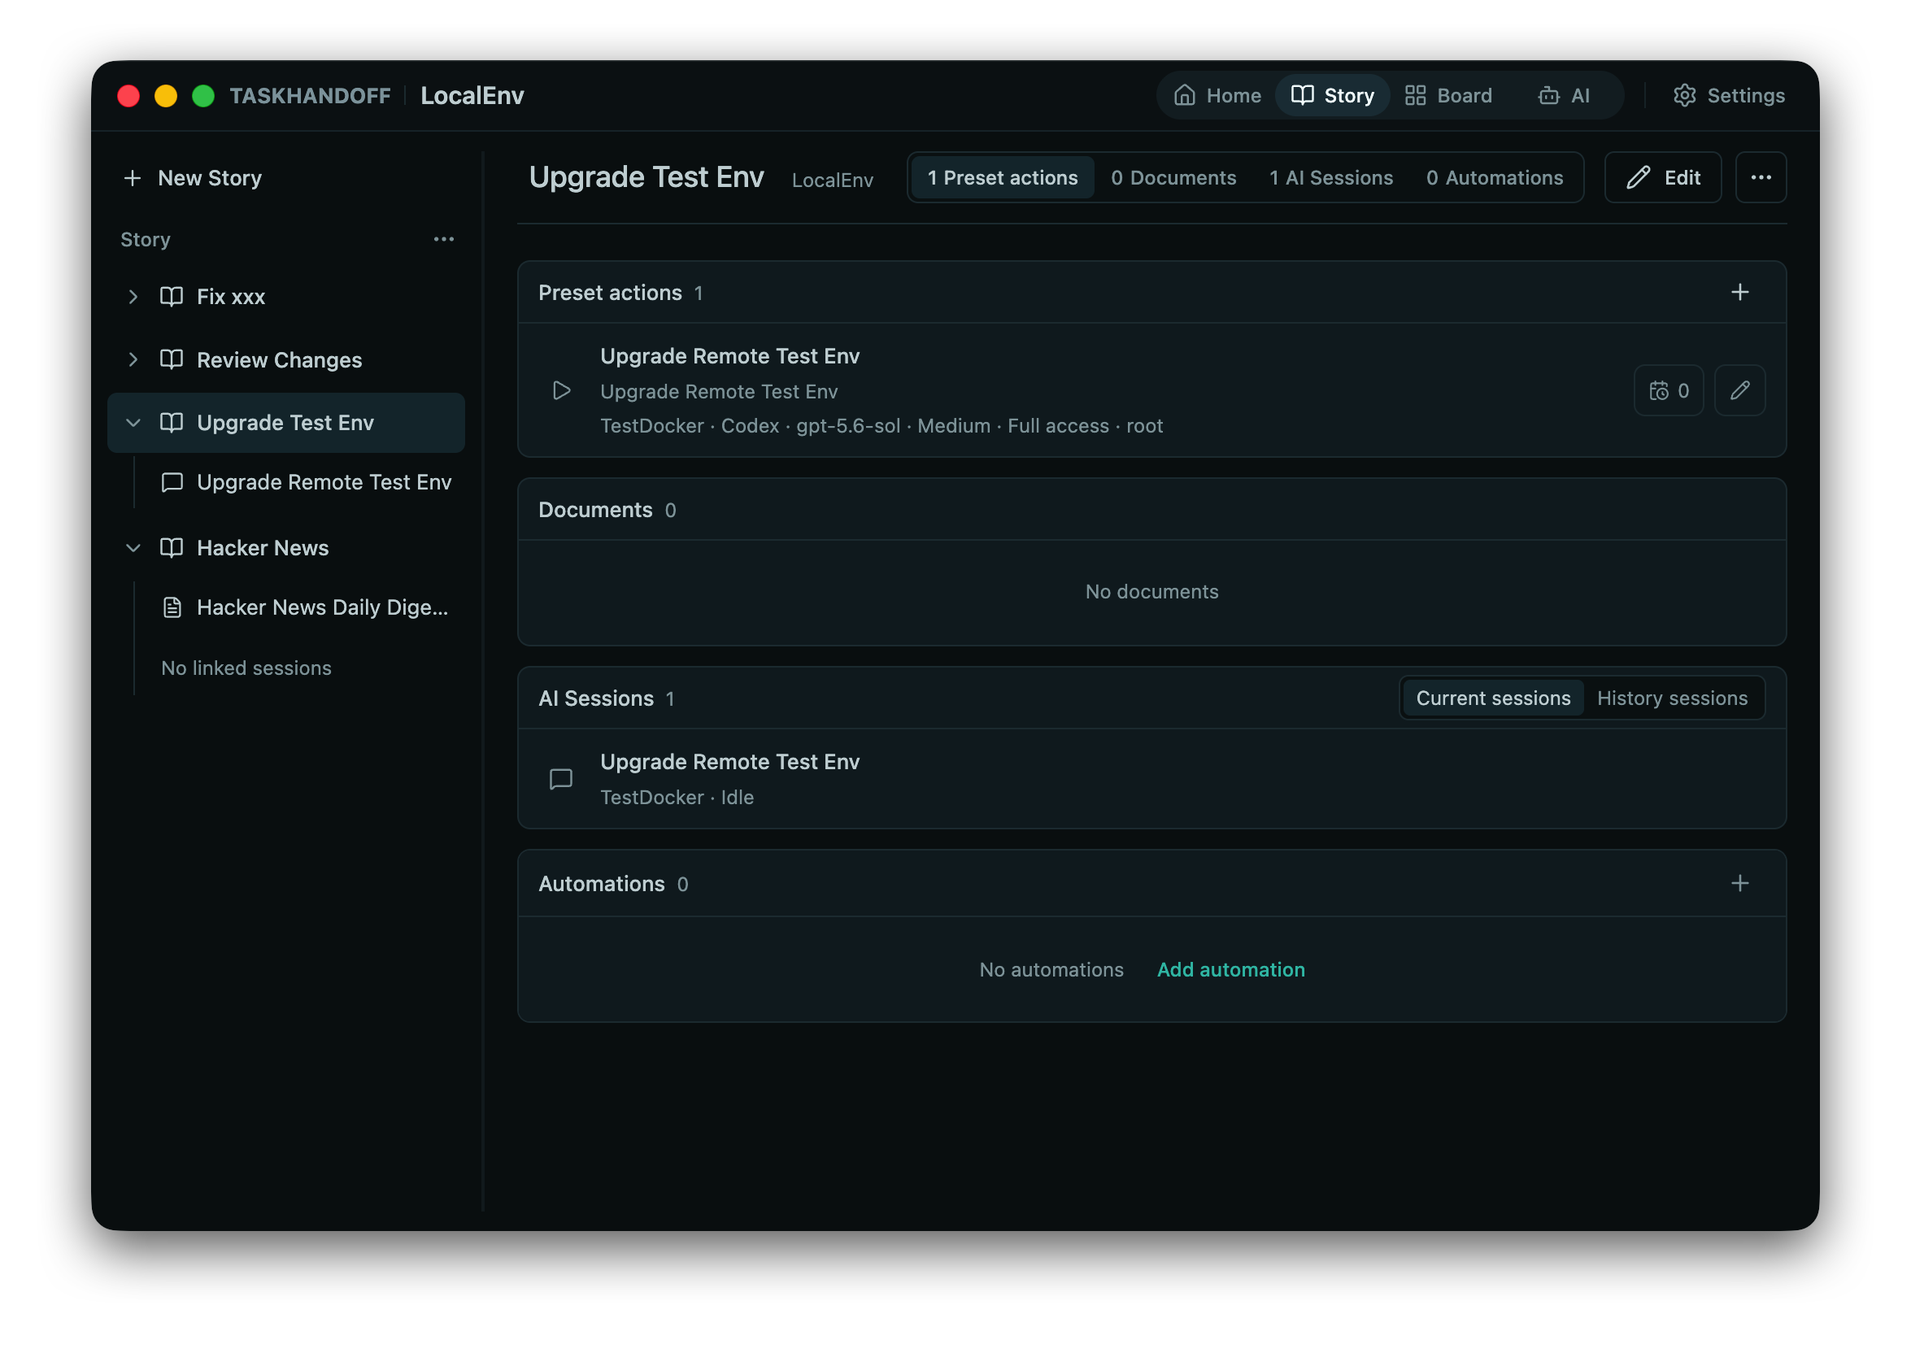
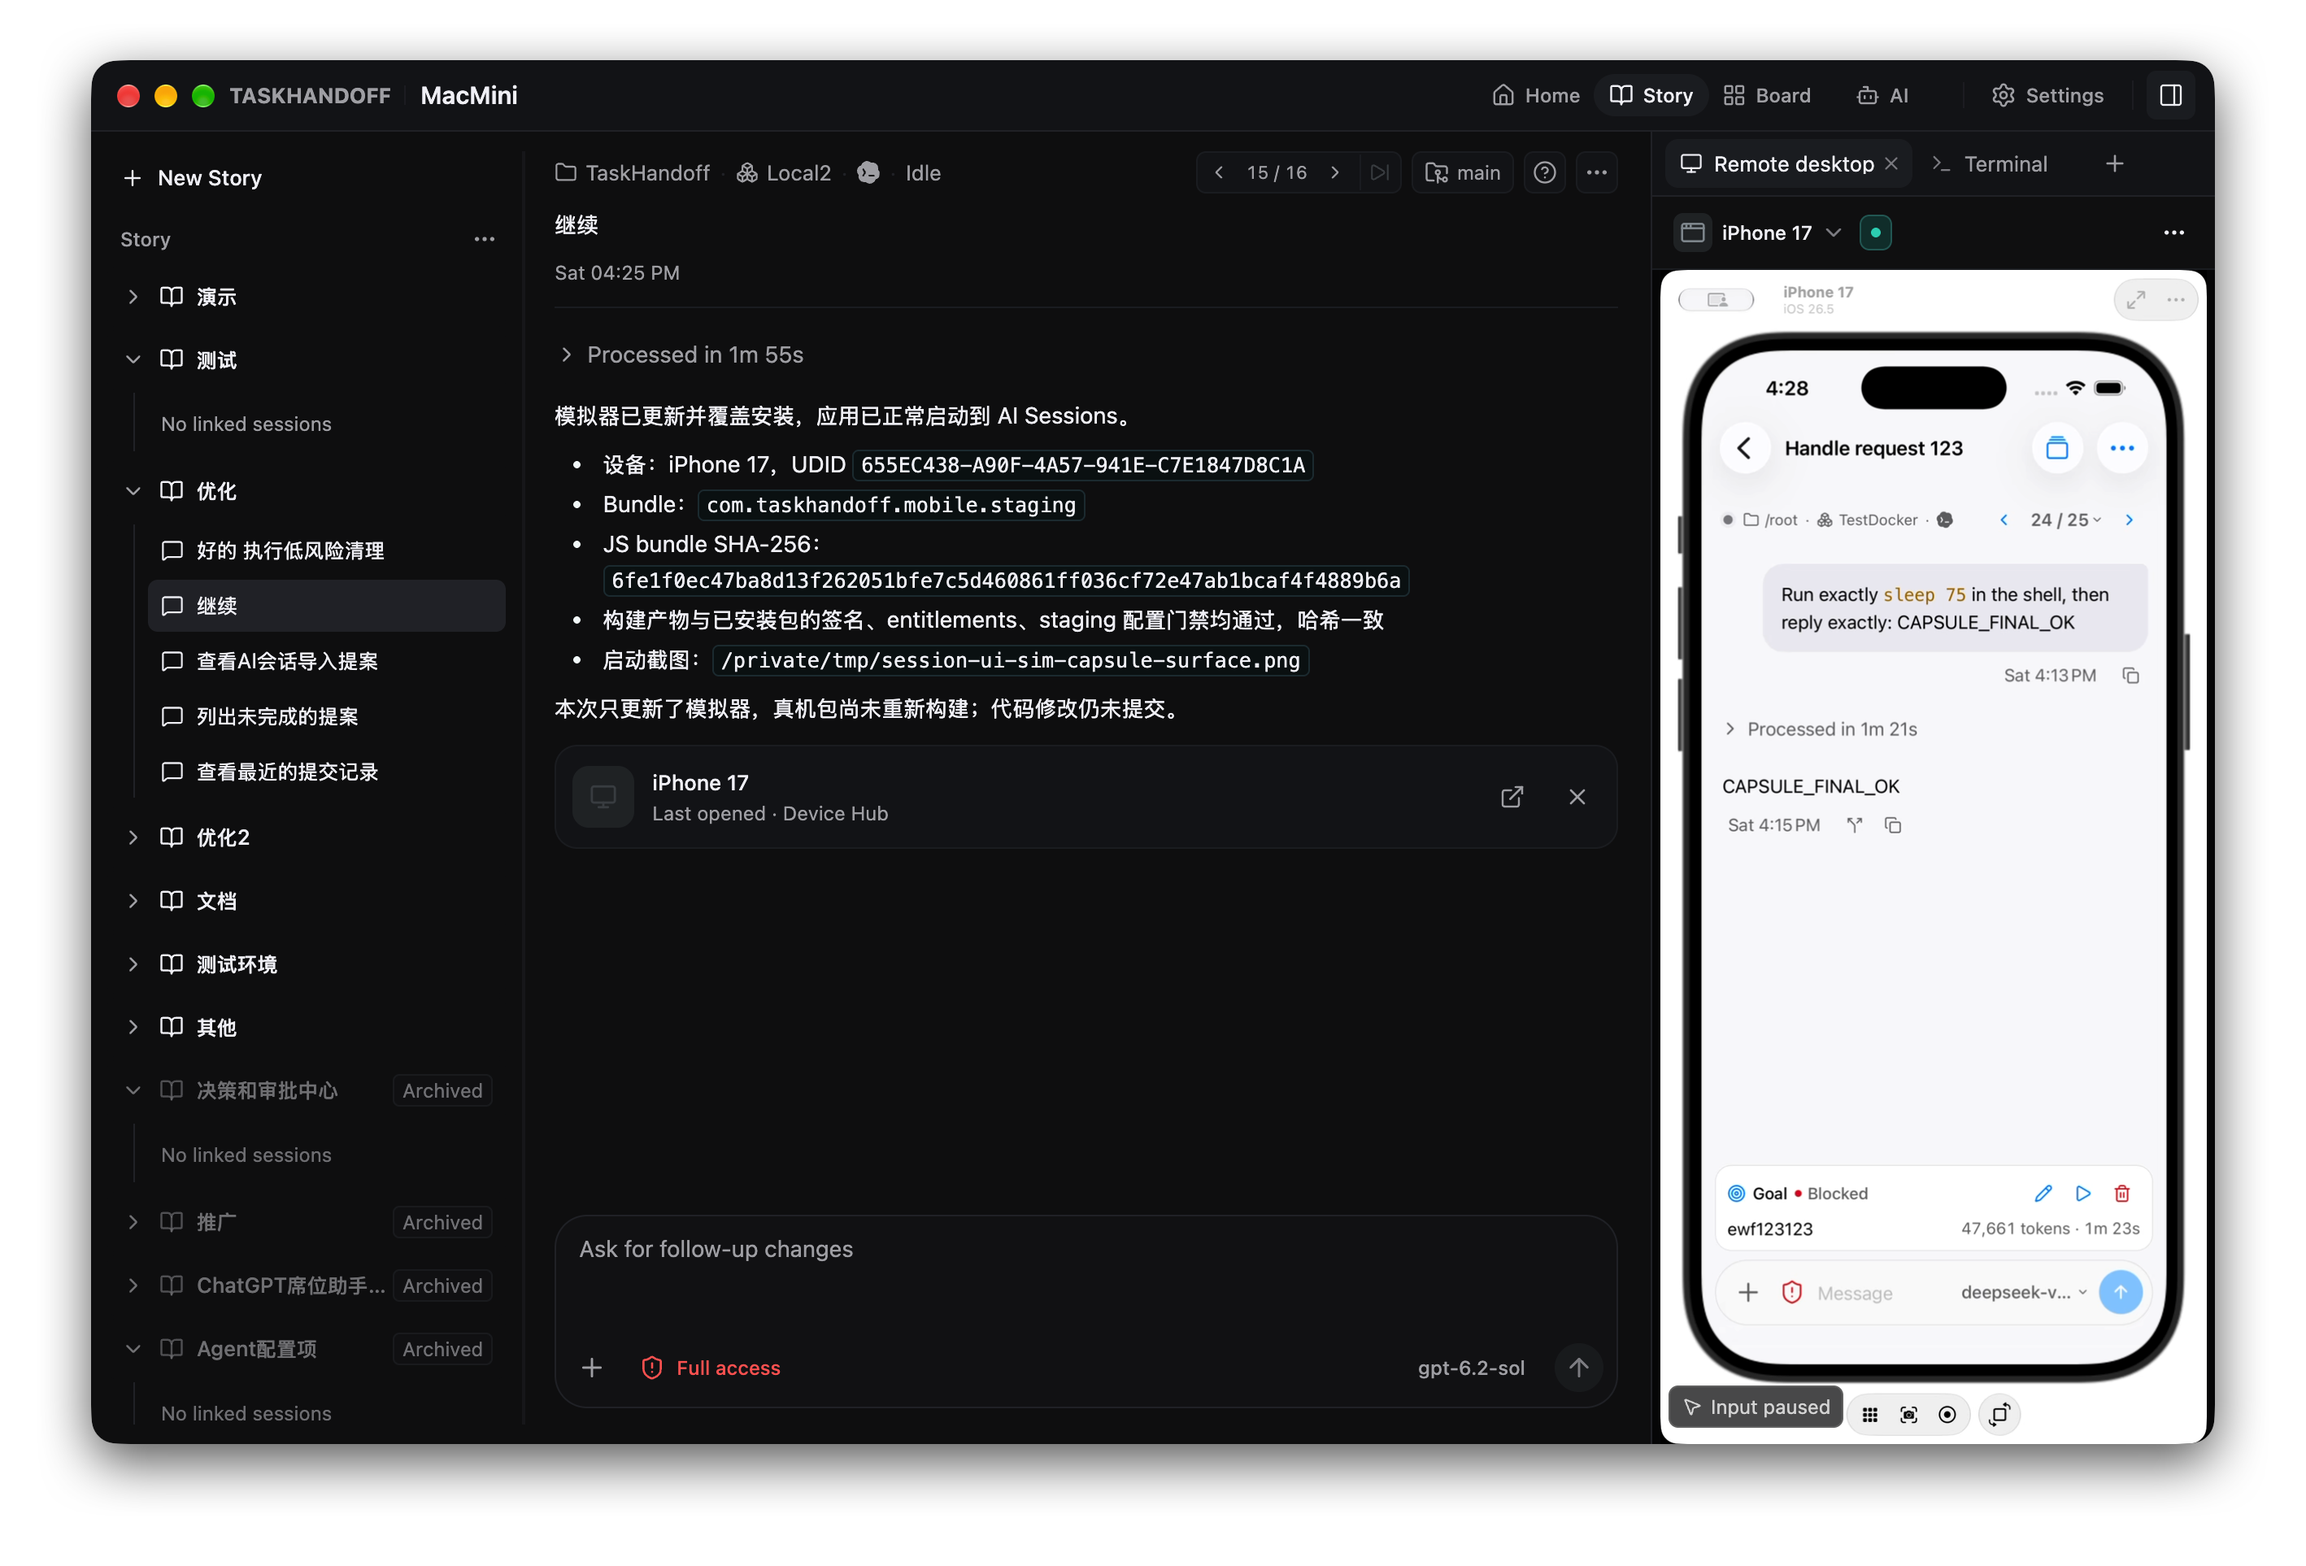
docs: refresh workbench and remote desktop screenshots

diff --git a/docs/.vitepress/theme/HomePage.vue b/docs/.vitepress/theme/HomePage.vue
@@ -19,7 +19,7 @@ const copy = {
     featureLink: '了解更多',
     heroNote: '免费远程工作；桌面安装或服务器部署，由你选择',
     previews: [
-      { label: '工作台', image: '/images/workbench-light-mode.png', alt: 'TaskHandoff Story 工作台：组织文档、会话与自动化', detail: '把文档、会话和自动化，放回同一个任务里', width: 1960, height: 1423 },
+      { label: '工作台', image: '/images/workbench-overview-light.png', alt: 'TaskHandoff 主界面：实例栏、AI 会话和主工作区', detail: '把文档、会话和自动化，放回同一个任务里', width: 2836, height: 1926 },
       { label: 'AI 会话', image: '/images/ai-session-view-modes.png', alt: 'TaskHandoff AI 会话：查看当前任务和工具活动', detail: '聚焦当前回合，执行过程与完整历史随时可查', width: 1960, height: 1424 },
       { label: '远程节点', image: '/images/node-management-overview.png', alt: 'TaskHandoff 节点管理：统一查看本机与远程运行环境', detail: '环境可以分布各处，管理入口始终只有一个', width: 1960, height: 1424 }
     ],
@@ -92,7 +92,7 @@ const copy = {
     previews: [
       { label: 'Workbench', image: '/images/workbench-overview-en.png', alt: 'TaskHandoff workbench with the instance sidebar and AI workspace', detail: 'Instances, sessions, and controls. Together in one workbench', width: 2178, height: 1664 },
       { label: 'AI sessions', image: '/images/instance-detail-en.png', alt: 'TaskHandoff instance with an English AI session composer', detail: 'Choose a workspace and agent, then start the next task', width: 2350, height: 1664 },
-      { label: 'Stories', image: '/images/story-overview-en.png', alt: 'TaskHandoff Story with actions, documents, sessions, and automation', detail: 'Keep long-running work and its context in one place', width: 2350, height: 1664 }
+      { label: 'Stories', image: '/images/story-overview-en.png', alt: 'TaskHandoff Story with a linked AI session and an iPhone Simulator Remote Desktop preview', detail: 'Keep long-running work and its context in one place', width: 2836, height: 1926 }
     ],
     heroLines: ['TaskHandoff', 'AI remote work and server operations'],
     previewLabel: 'Workbench preview',

diff --git a/docs/en/guide/workbench.md b/docs/en/guide/workbench.md
@@ -3,7 +3,7 @@
 After sign-in, TaskHandoff opens its unified workbench. The top navigation switches product views, while the instance sidebar locates runtime environments.
 
 <figure class="doc-screenshot">
-  <img src="/images/workbench-overview-en.png" alt="TaskHandoff workbench overview">
+  <img src="/images/workbench-overview-dark.png" alt="TaskHandoff workbench in dark mode with the instance sidebar, session list, and main workspace">
   <figcaption>The workbench combines top-level navigation, the instance sidebar, session list, and main workspace.</figcaption>
 </figure>
 
@@ -23,8 +23,8 @@ After sign-in, TaskHandoff opens its unified workbench. The top navigation switc
 Search, sort, group, and resize the instance sidebar. Selecting an instance opens its AI and app sessions. Its menu provides lifecycle, settings, and deletion actions.
 
 <figure class="doc-screenshot">
-  <img src="/images/instance-switcher-en.png" alt="Instance switcher in the TaskHandoff workbench">
-  <figcaption>Switch directly between running instances from the workbench header.</figcaption>
+  <img src="/images/workbench-overview-light.png" alt="TaskHandoff workbench in light mode showing connected instances in the sidebar">
+  <figcaption>The instance sidebar lists connected instances and their state; select one to open its AI and app sessions.</figcaption>
 </figure>
 
 The instance board supervises multiple workspaces and supports filters, card sizes, app previews, and preview interaction. The AI board focuses on running, waiting, and failed AI sessions.
@@ -57,6 +57,11 @@ Instance details contain AI timelines, app sessions and terminals, browser previ
 
 After the instance has the Remote Desktop component installed and enabled, open it from the session action menu, resource sidebar, or instance details. Session cards and floating previews are read-only; open the full surface before enabling input or clipboard access.
 
+<figure class="doc-screenshot">
+  <img src="/images/remote-desktop-source-picker-en.png" width="2836" height="1926" alt="Remote Desktop source picker with Entire desktop and Single window options">
+  <figcaption>Choose the entire desktop or a single window, then review the source and connection details before opening the viewer.</figcaption>
+</figure>
+
 The preview uses a floating window by default. Change it under **Settings → Basic → Appearance → Remote desktop card** to expand inline in the session. See [Remote Desktop](/en/workspace/remote-desktop) for requirements and controls.
 
 ## Light and Dark Modes
@@ -64,13 +69,8 @@ The preview uses a floating window by default. Change it under **Settings → Ba
 TaskHandoff provides light and dark interfaces. Under **Settings → Basic → Theme**, choose **Follow system**, **Light**, or **Dark**. Follow system uses the current operating system or desktop-client appearance. The choice changes presentation only; it does not affect instances, AI sessions, or server data.
 
 <figure class="doc-screenshot">
-  <img src="/images/story-workspace-light-en.png" alt="TaskHandoff Story workspace in light mode">
-  <figcaption>The Story workspace in light mode.</figcaption>
-</figure>
-
-<figure class="doc-screenshot">
-  <img src="/images/story-workspace-dark-en.png" alt="TaskHandoff Story workspace in dark mode with a Story session and a Chrome window running in the container">
-  <figcaption>The Story workspace in dark mode, with a Story session and a Chrome window running in the container.</figcaption>
+  <img src="/images/story-overview-en.png" alt="TaskHandoff Story workspace in dark mode with a linked AI session and a Remote Desktop preview">
+  <figcaption>TaskHandoff in dark mode, with a Story session and a live Remote Desktop preview.</figcaption>
 </figure>
 
 ## Responsive Interface

diff --git a/docs/en/automation/index.md b/docs/en/automation/index.md
@@ -27,8 +27,8 @@ The owner node determines where Story files live and which instances and session
 Create sessions inside the Story or attach unassigned sessions from its owner node. New sessions can use Codex or OpenCode with an explicit instance, directory, model, and permission mode.
 
 <figure class="doc-screenshot">
-  <img src="/images/story-overview-en.png" alt="Story overview with preset actions, documents, AI sessions, and automations">
-  <figcaption>A Story keeps preset actions, goal documents, related AI sessions, and automations in one workspace.</figcaption>
+  <img src="/images/story-overview-en.png" alt="Story workspace with a linked AI session and an iPhone Simulator Remote Desktop preview">
+  <figcaption>A Story keeps long-running work, its related AI sessions, and live Remote Desktop previews in one workspace.</figcaption>
 </figure>
 
 Archive completed Stories for later reading. Deleting a Story also deletes its file directory and cannot be undone. Move important deliverables into the project repository or another backup first.

diff --git a/docs/en/workspace/remote-desktop.md b/docs/en/workspace/remote-desktop.md
@@ -38,6 +38,11 @@ Open Remote Desktop from:
 
 Choose a capture source on first use. Each viewer can independently select the entire desktop, a single window, an application, or a custom region, depending on host support. If a saved window closes or the source becomes invalid, select another source.
 
+<figure class="doc-screenshot">
+  <img src="/images/remote-desktop-source-picker-en.png" width="2836" height="1926" alt="Remote Desktop source picker with Entire desktop and Single window options">
+  <figcaption>Choose the entire desktop or a single window; the side panel shows the source, resolution, and connection methods before you open the viewer.</figcaption>
+</figure>
+
 ## Preview and Control
 
 The remote desktop card and floating preview in a session are read-only. Open the full Remote Desktop surface before enabling input or clipboard access.

diff --git a/docs/zh/automation/index.md b/docs/zh/automation/index.md
@@ -33,8 +33,8 @@ Story 是 TaskHandoff 中组织长期工作的核心单元。一个 Story 可以
 Story 中同时显示当前会话和已关闭的历史会话。关闭 Story 的全部会话会停止其中仍在运行的工作，确认前应检查活跃任务。
 
 <figure class="doc-screenshot">
-  <img src="/images/story-session-compact-view.png" alt="Story 中关联的 AI 会话简洁视图">
-  <figcaption>Story 将目标资料与关联的 Codex、OpenCode 会话放在同一工作区。</figcaption>
+  <img src="/images/story-overview-zh.png" alt="Story 工作区，中间为关联的 AI 会话，右侧为 iPhone 模拟器远程桌面预览">
+  <figcaption>Story 将长期工作、关联的 AI 会话和远程桌面预览放在同一工作区。</figcaption>
 </figure>
 
 ## 生命周期

diff --git a/docs/zh/workspace/remote-desktop.md b/docs/zh/workspace/remote-desktop.md
@@ -38,6 +38,11 @@
 
 首次打开需要选择画面。每个查看者可以独立选择整桌面、单个窗口、某个应用或自定义区域；具体类型是否可用取决于宿主环境。保存过的窗口关闭或失效时，需要重新选择画面。
 
+<figure class="doc-screenshot">
+  <img src="/images/remote-desktop-source-picker-zh.png" width="2836" height="1926" alt="远程桌面选择画面界面，提供整个桌面和单个窗口选项">
+  <figcaption>选择整个桌面或单个窗口；右侧会显示画面来源、分辨率和连接方式，确认后打开远程桌面。</figcaption>
+</figure>
+
 ## 预览与控制
 
 会话中的远程桌面卡片和浮动预览默认是只读画面。点击画面打开完整远程桌面后，才能启用输入和剪贴板。
